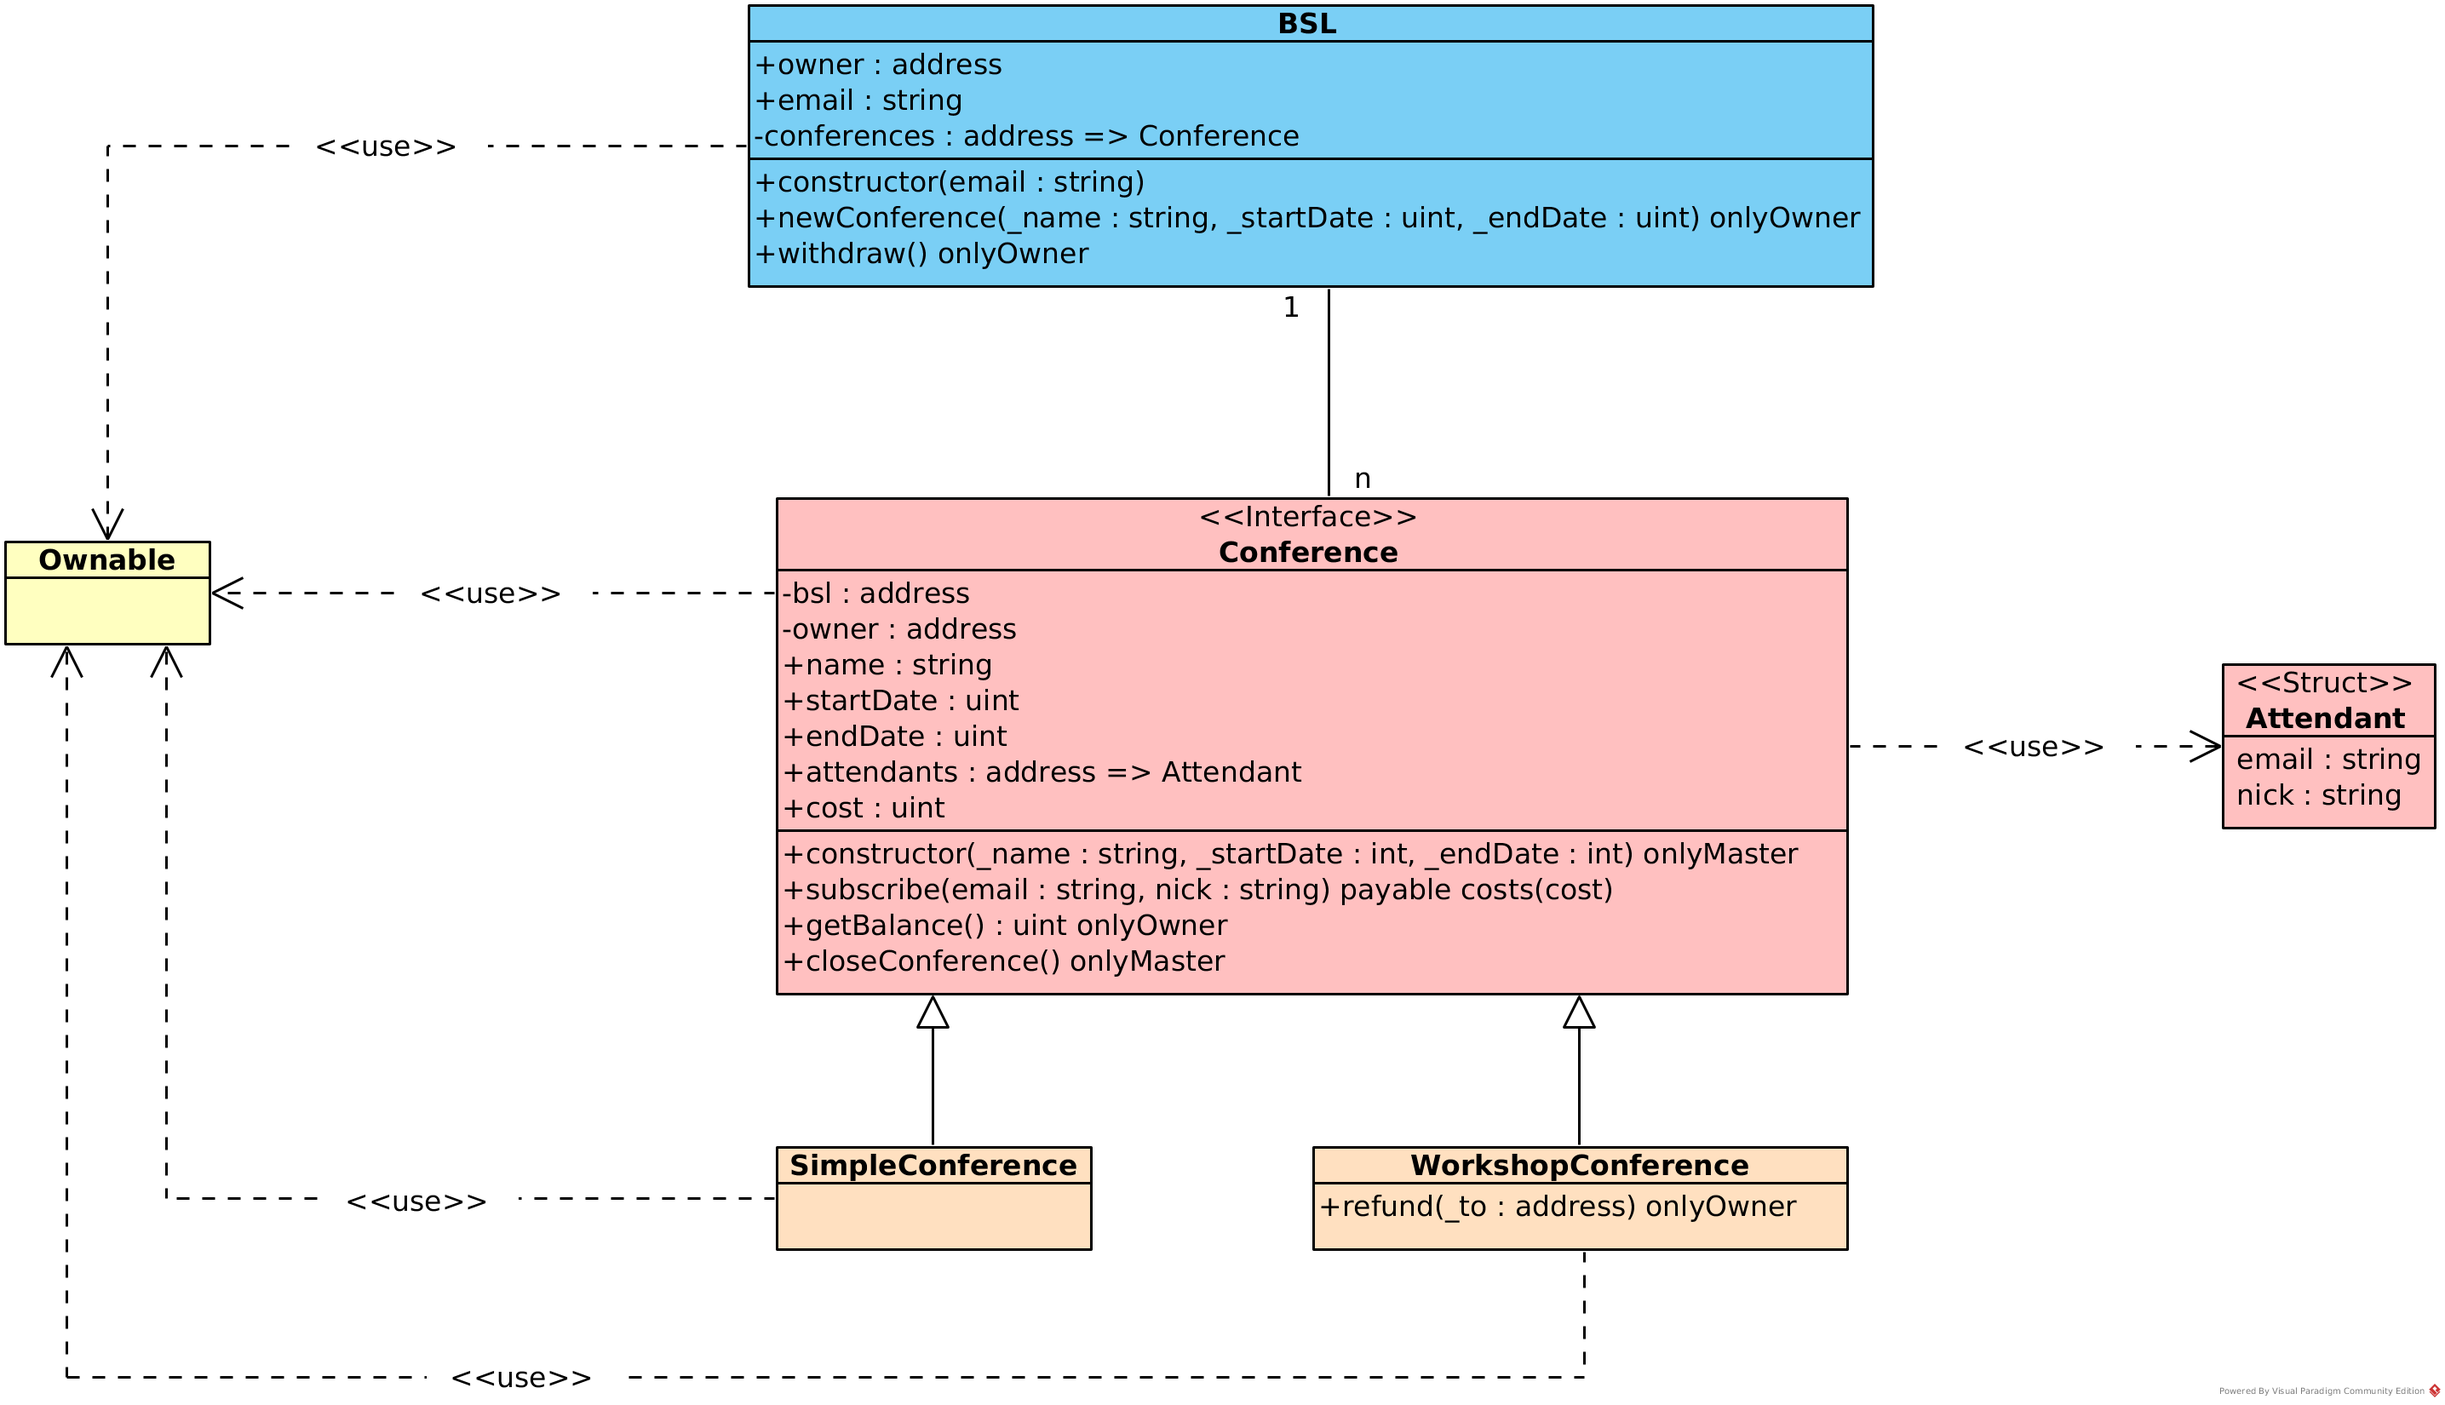
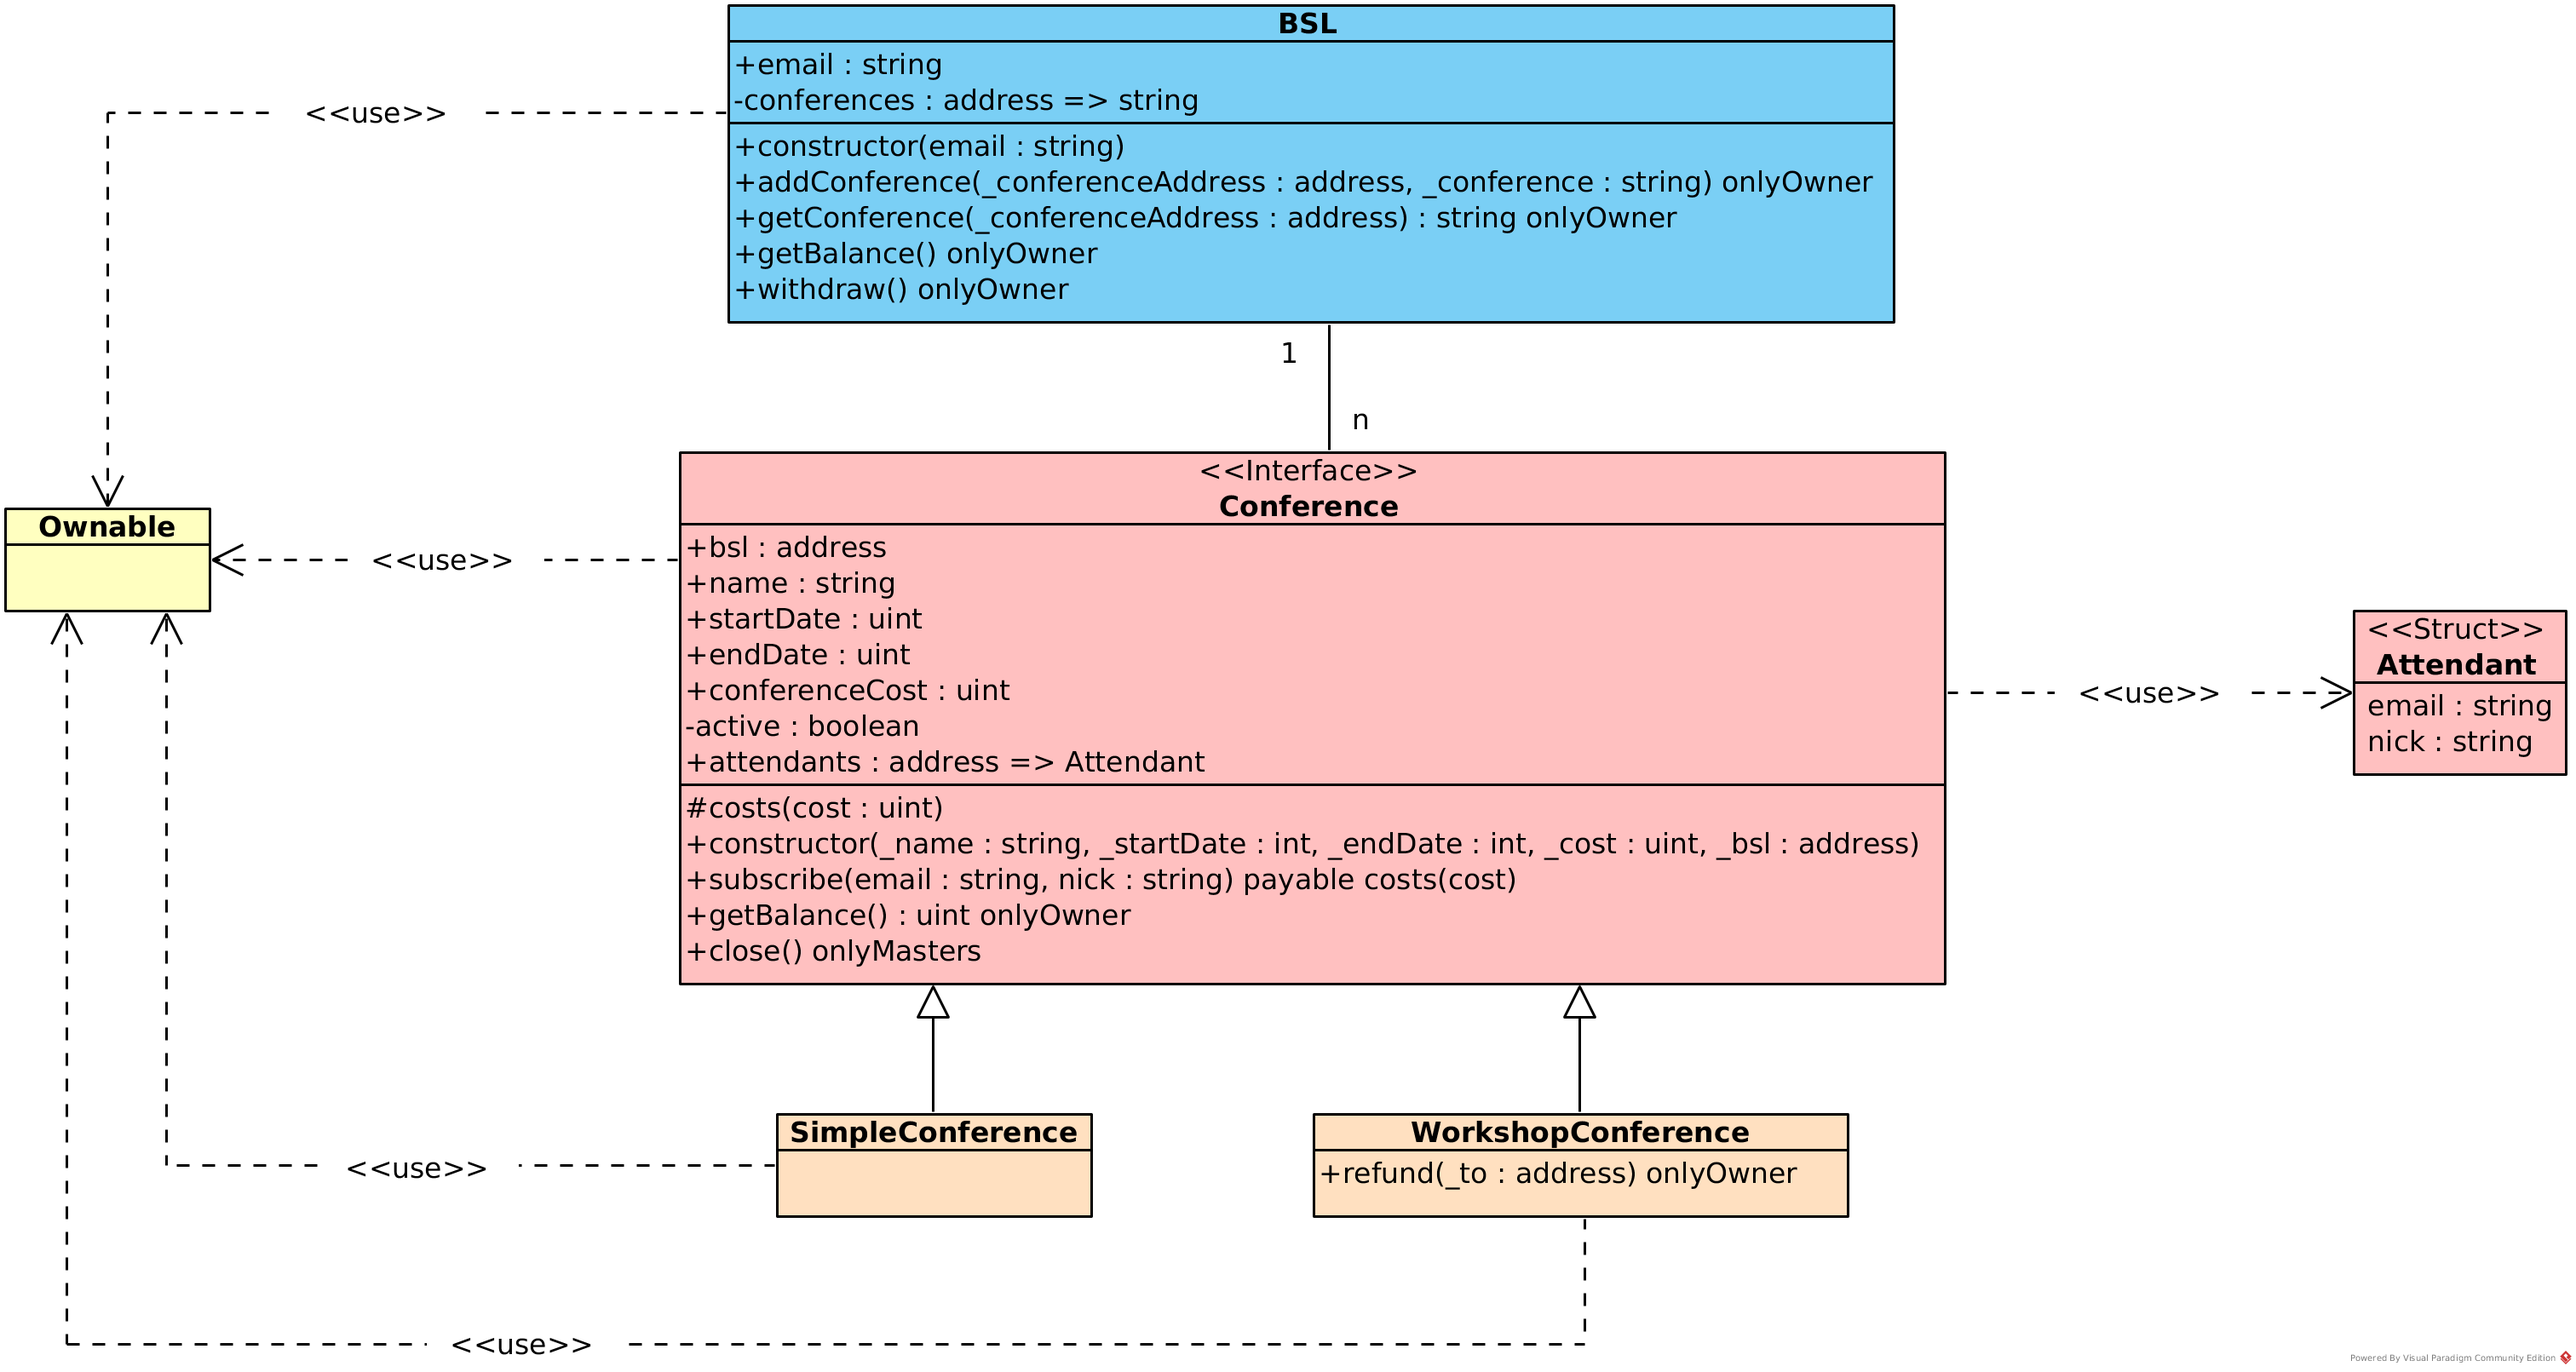
Adding Conference and SimpleConference with tests
I've added the test for the `SimpleConference` contract, the
        SimpleConference and the Conference interface contract. Also,
        this new test forced me to change the BSL implementation.

        Since the original diagram wasn't reflecting the case properly,
        I've updated the diagram.

diff --git a/test/02-simple-conference.js b/test/02-simple-conference.js
@@ -1,0 +1,82 @@
+const BSL = artifacts.require('BSL')
+const Conference = artifacts.require('SimpleConference')
+
+const chai = require('chai')
+const moment = require('moment')
+const Web3 = require('web3')
+const expect = chai.expect
+
+const web3 = new Web3('ws://localhost:8545')
+
+contract('Simple Conference behavior', accounts => {
+  const [
+    owner,
+    assistant
+  ] = accounts
+  let bsl, conference
+
+  it('should get an instance of the BSL and its owner', async() => {
+    bsl = await BSL.deployed()
+    expect(await bsl.owner()).to.eq(owner)
+  })
+  it('should create a new simple conference and register it at the BSL', async() => {
+    const start = moment().add(2, 'days').format('x')
+    const end = moment().add(4, 'days').format('x')
+    conference = await Conference.new('BSL Bogota', start, end, 1, bsl.address)
+    await bsl.addConference(conference.address, await conference.name())
+    expect(conference).not.to.be.null
+    expect(await conference.bsl()).to.eq(bsl.address)
+  })
+  it('should get the registered owner for the Conference contract', async() => {
+    expect(await conference.owner()).to.eq(owner)
+  })
+  it('should get the registered name of the Conference', async() => {
+    expect(await conference.name()).to.eq('BSL Bogota')
+  })
+  it('should get the same name for the conference and the registered conference at BSL', async() => {
+    expect(await bsl.getConference(conference.address)).to.eq(await conference.name())
+  })
+  it('should allow an assistant to subscribe to the conference', async() => {
+    tx = await conference.subscribe('pickard@enterpri.se', 'jlpickard', {from: assistant, value: web3.utils.toWei('1', 'ether')})
+    expect(tx.tx).to.match(/0x\w{64}/g)
+    expect(tx.tx.length).to.eq(66)
+  })
+  it('should allow the owner to get the conference balance', async() => {
+    balance = await conference.getBalance()
+    balance = web3.utils.fromWei(balance.toString(), 'ether')
+    expect(balance).to.eq('1')
+  })
+  it('should allow the masters (owner and BSL contract) to close the conference', async() => {
+    closeTx = await conference.close()
+    expect(closeTx.tx.length).to.eq(66)
+    expect(closeTx.tx).to.match(/0x\w{64}/g)
+  })
+  it('should get a balance equal to 0 for the conference after closing it', async() => {
+    balance = await conference.getBalance()
+    balance = web3.utils.fromWei(balance.toString(), 'ether')
+    expect(balance).to.eq('0')
+  })
+  it('should get a balance equal to 1 for the BSL contract after closing the conference', async() => {
+    balance = await bsl.getBalance()
+    balance = web3.utils.fromWei(balance.toString(), 'ether')
+    expect(balance).to.eq('1')
+  })
+  it('should run this to guarantee previous tests', () => {
+    expect(true).to.be.true
+  })
+  it('should allow the owner to withdraw the BSL money', async() => {
+    tx = await bsl.withdraw()
+    expect(tx.tx.length).to.eq(66)
+    expect(tx.tx).to.match(/0x\w{64}/g)
+  })
+  it('should get a balance of 0 for the BSL contract', async() => {
+    balance = await bsl.getBalance()
+    balance = web3.utils.fromWei(balance.toString(), 'ether')
+    expect(balance).to.eq('0')
+  })
+  it('should have 1 ether or more at the owner account', async() => {
+    balance = await web3.eth.getBalance(owner)
+    balance = parseFloat( web3.utils.fromWei(balance.toString(), 'ether') )
+    expect(balance).to.above(100)
+  })
+})

diff --git a/README.md b/README.md
@@ -1,9 +1,27 @@
 # SmartContract Architecture on Ethereum
 
-## BSL Contract and its Testing
+## Conference Interface, BSL and SimpleConference Contract and their Testings
 
-For this version the first test was implemented in order to check the basic behavior of the `BSL` contract.
+For this version I got a Conference Interface, a SimpleConference Contract implementation and their effects on the BSL Contract.
 
-The tests are executed lexicographically, so that's why tests will appear with a number.
+A little of my original design was changed during implementation.
 
-To achieve this, you'll realize that there is a migration called `2_deploy_contracts.js` that will tell how contracts are deployed.
+![ClassDiagram](/ClassDiagram.png "New Diagram")
+
+## Dependencies
+
+For this test I also included some new node dependencies:
+
+```JSON
+{
+  "devDependencies": {
+    "chai": "^4.2.0",
+    "chai-as-promised": "^7.1.1"
+  },
+  "dependencies": {
+    "moment": "^2.22.2",
+    "openzeppelin-solidity": "^1.12.0",
+    "web3": "^1.0.0-beta.36"
+  }
+}
+```
